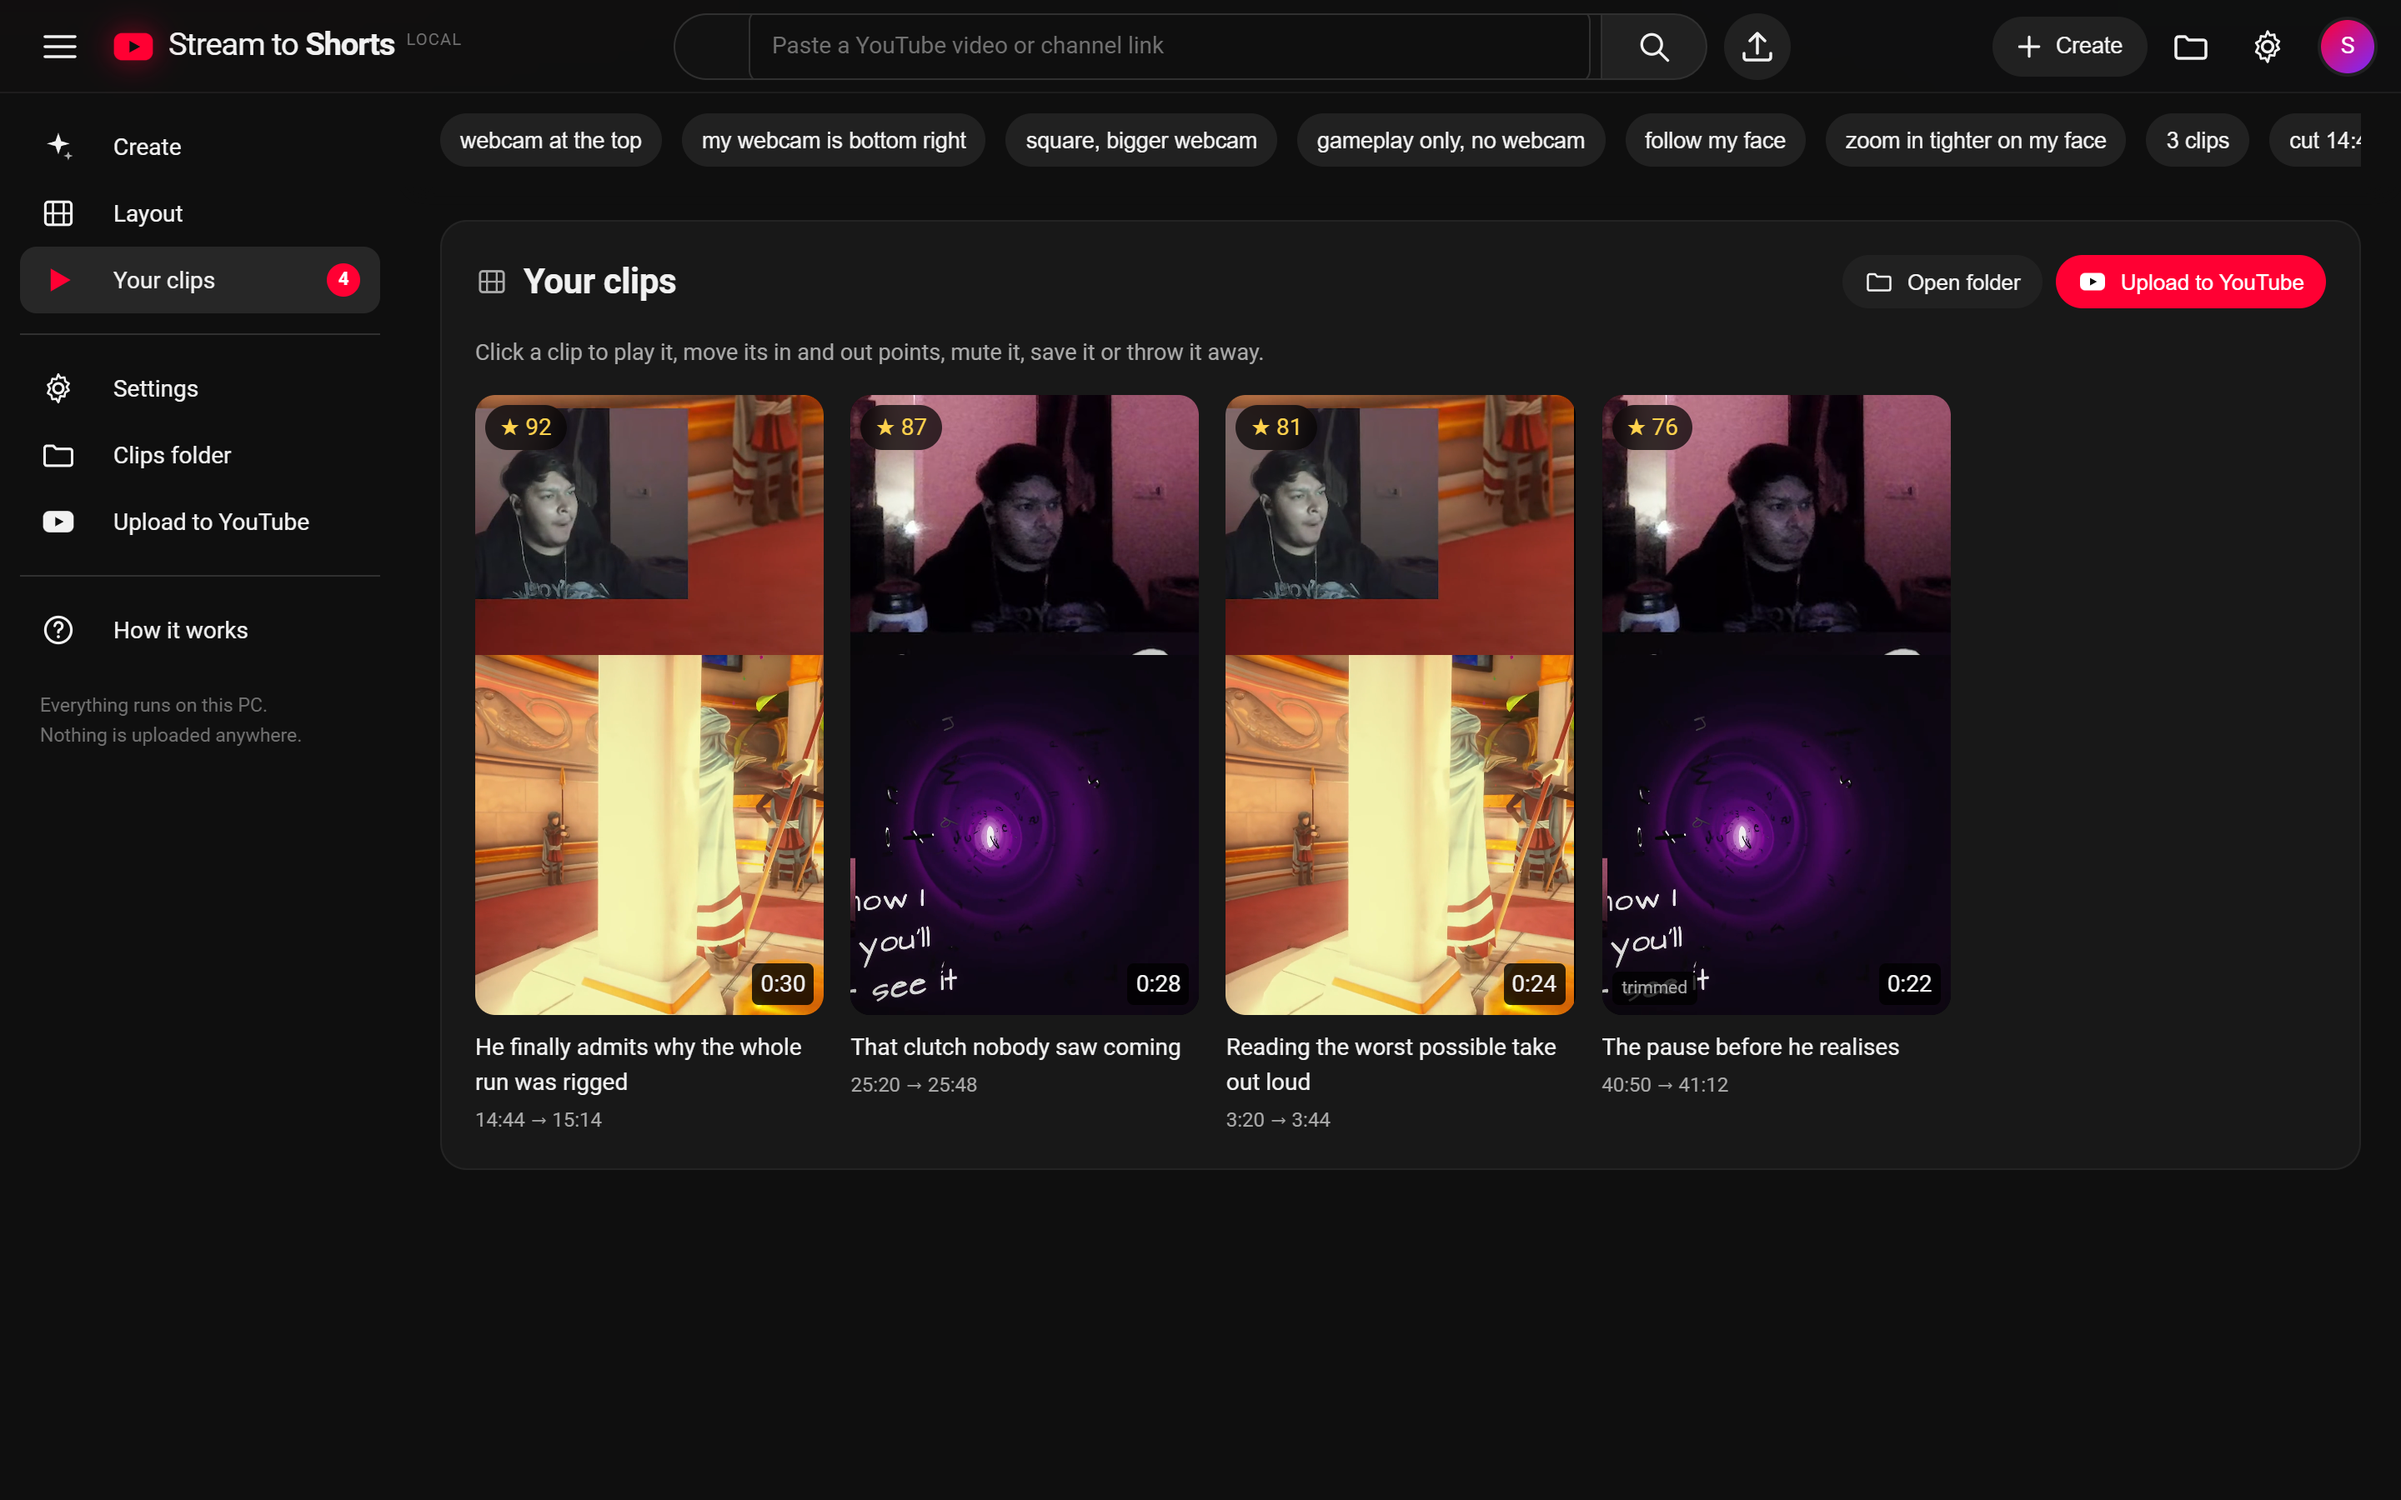
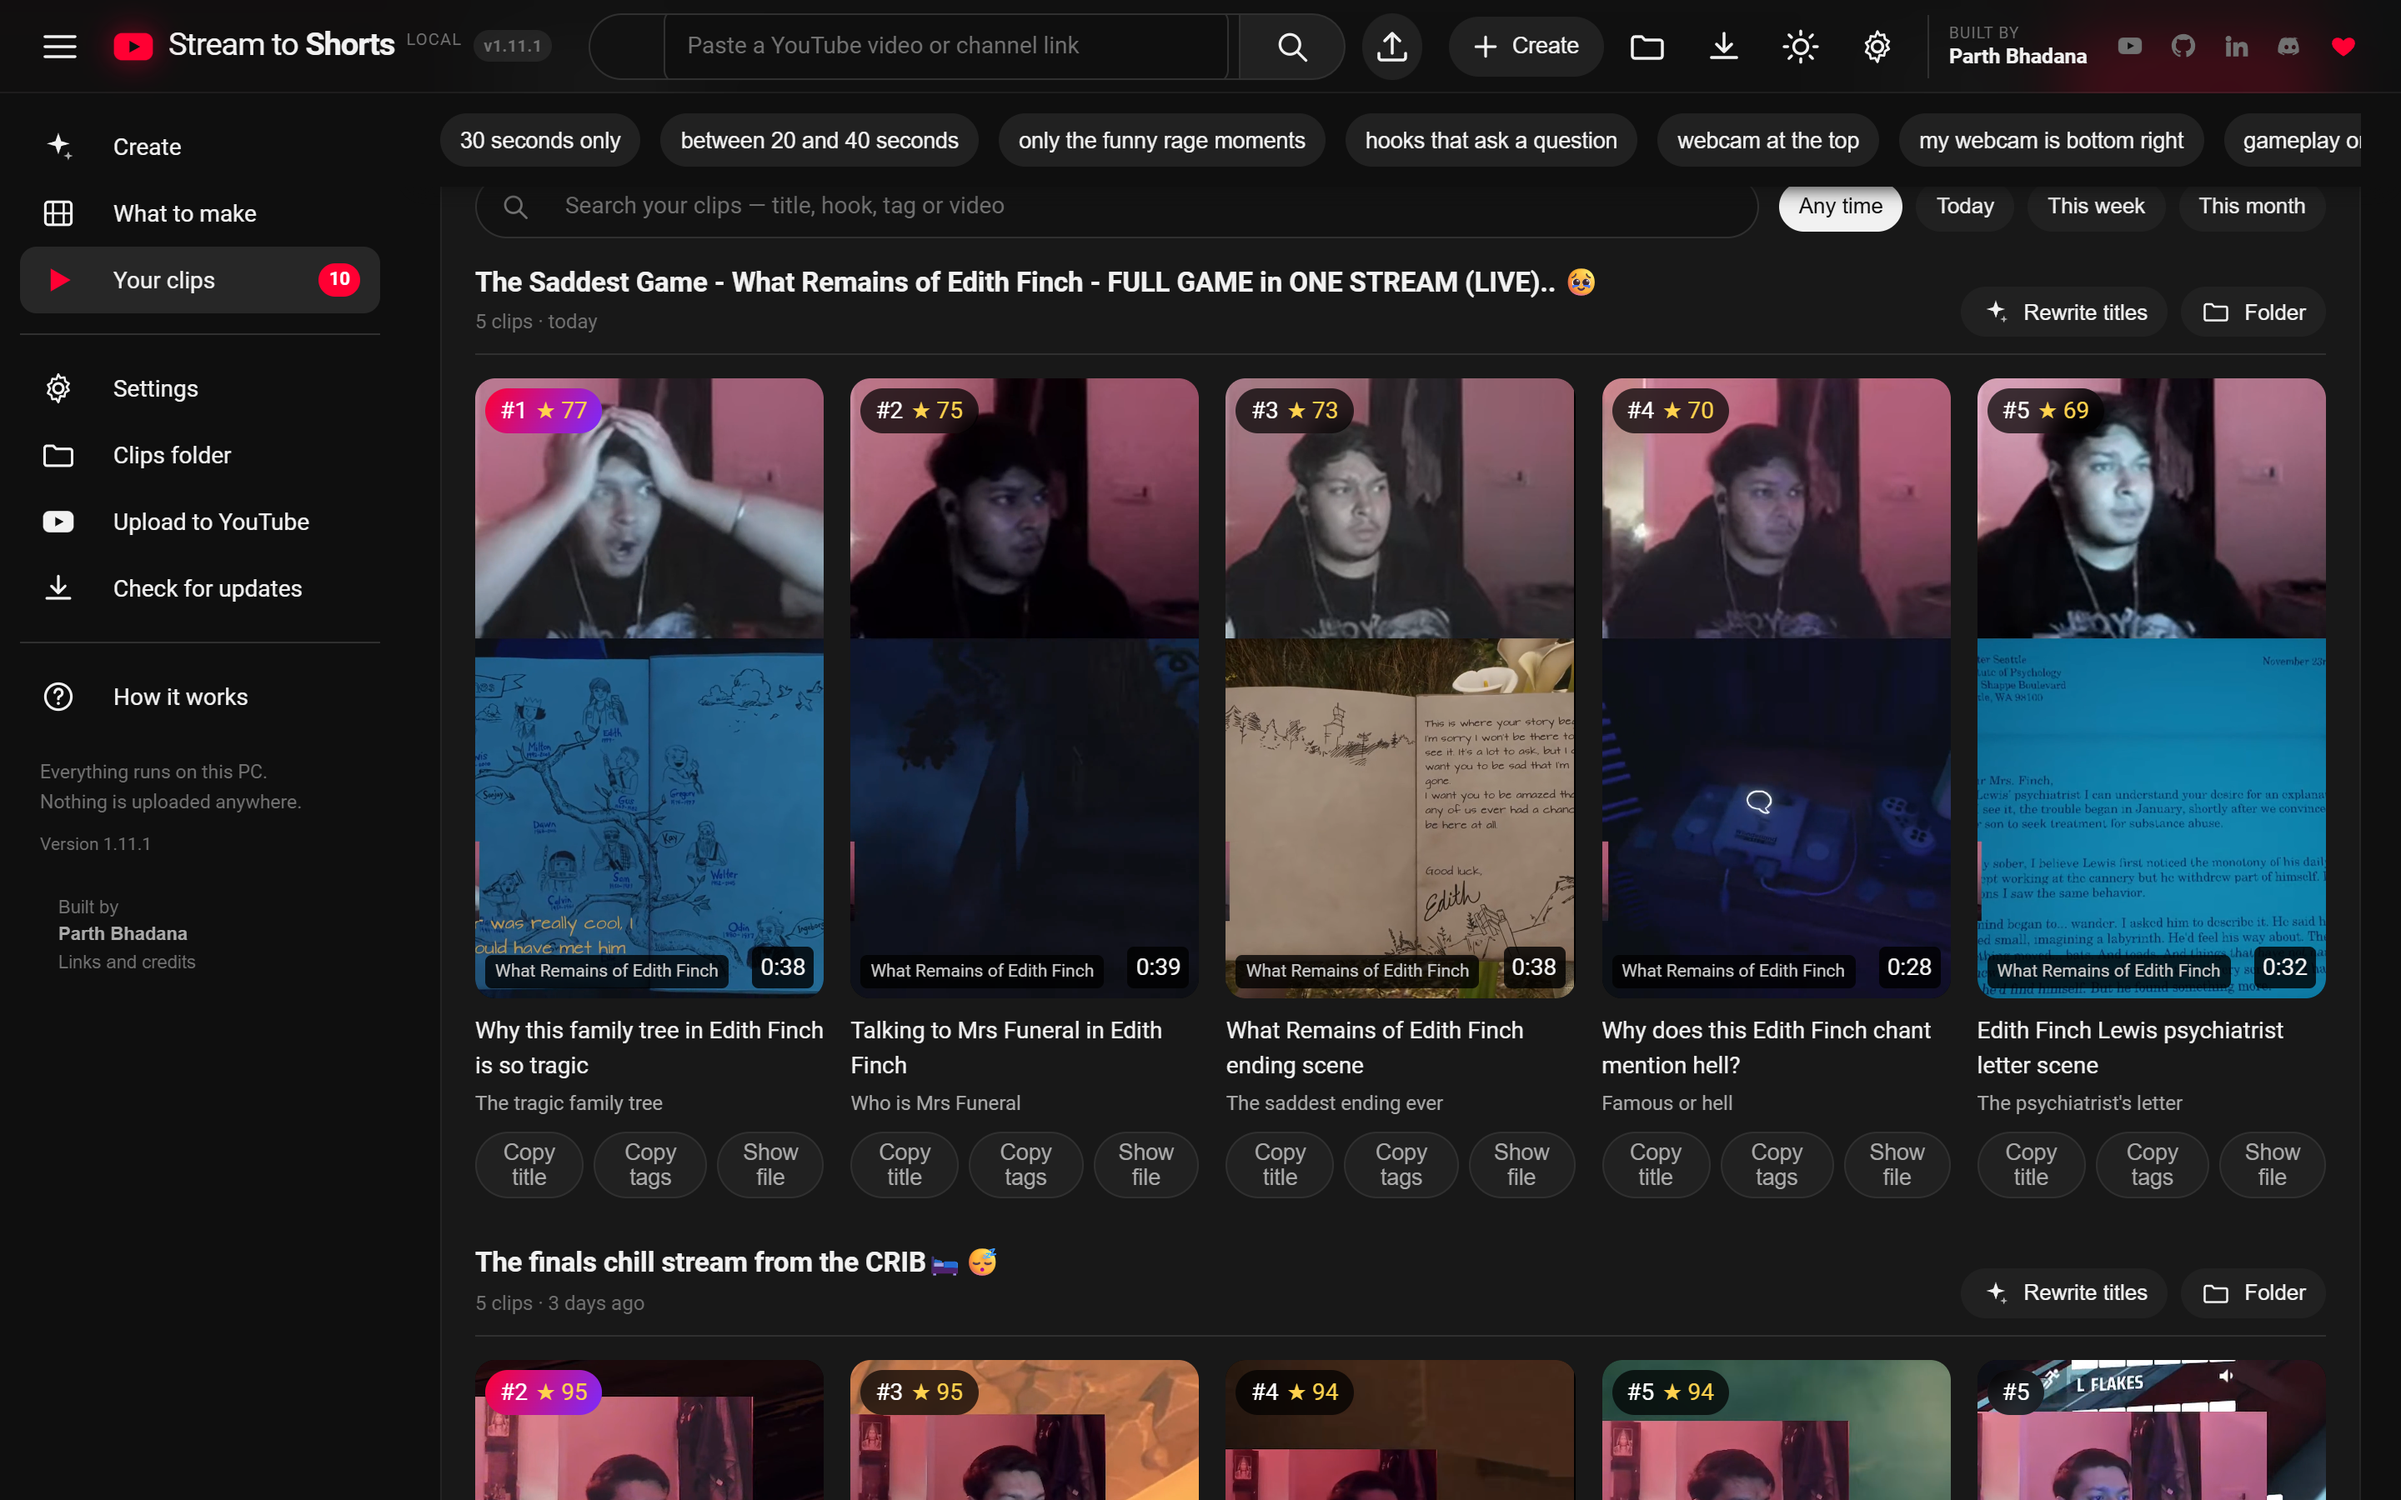
docs: retake every README screenshot on v1.11.1, and show Boost
The screenshots still showed v1.5.1 - clips without ranks, titles or the game
they are filed under, a progress panel from before the log said anything
worth reading, and no sign of the Boost panel at all.

All five are retaken on the current build at 2880x1800, from real runs: the
Firewatch / Finals variety stream and a fresh run on the Edith Finch VOD. The
progress shot is mid-render with the log showing the vision pass filing every
clip and the webcam overlay located with all four edges. A sixth, 05-boost,
shows what a clip is filed under and its five ranked title options. Alt text
and the Windows download size (220 MB) are brought up to date.

diff --git a/README.md b/README.md
@@ -88,7 +88,7 @@ Transcribes the audio locally with faster-whisper, then ranks every moment for
 what actually travels: hooks, revelations, opinion bombs, story peaks. You get
 told which stage it's on, because a three-hour VOD is not a two-second wait.
 
-<img src="assets/screenshots/02-progress.png" alt="A job mid-run, transcribing at 42%, with the log open" width="880">
+<img src="assets/screenshots/02-progress.png" alt="A job mid-run, rendering its clips, with the log open showing the webcam overlay being located" width="880">
 
 ### Pause it when you need your machine back
 
@@ -181,7 +181,7 @@ Failed runs say so too, and name what went wrong.
 
 Each card carries its score and the exact span it was cut from.
 
-<img src="assets/screenshots/03-clips.png" alt="Four finished clips in a grid, each with a score and timestamps" width="880">
+<img src="assets/screenshots/03-clips.png" alt="Finished clips in a grid, each with its rank, score, length, the game it is filed under, and its title" width="880">
 
 ### The title knows what is on screen
 
@@ -202,6 +202,8 @@ plus a ranked list of tags to tap in and out. All of it is editable, and
 **Save changes** keeps your wording — the mp4 on your PC is renamed to match
 the new title, so what is in the folder is always what goes into YouTube's
 title box.
+
+<img src="assets/screenshots/05-boost.png" alt="The Boost panel on a Firewatch clip: what the clip is filed under, the chosen title, and five ranked title options with their scores and angles" width="880">
 
 ### When something fails, it tries again
 
@@ -236,7 +238,7 @@ rendered file.
 
 ## Get it
 
-[**⬇ Download StreamToShorts.exe**](https://github.com/kleZ799/stream-to-shorts/releases/latest/download/StreamToShorts.exe) — 219 MB, Windows, self-contained.
+[**⬇ Download StreamToShorts.exe**](https://github.com/kleZ799/stream-to-shorts/releases/latest/download/StreamToShorts.exe) — 220 MB, Windows, self-contained.
 
 [**⬇ Download StreamToShorts-macOS-arm64.zip**](https://github.com/kleZ799/stream-to-shorts/releases/latest/download/StreamToShorts-macOS-arm64.zip) — 165 MB, Apple Silicon. **Beta.**
 
